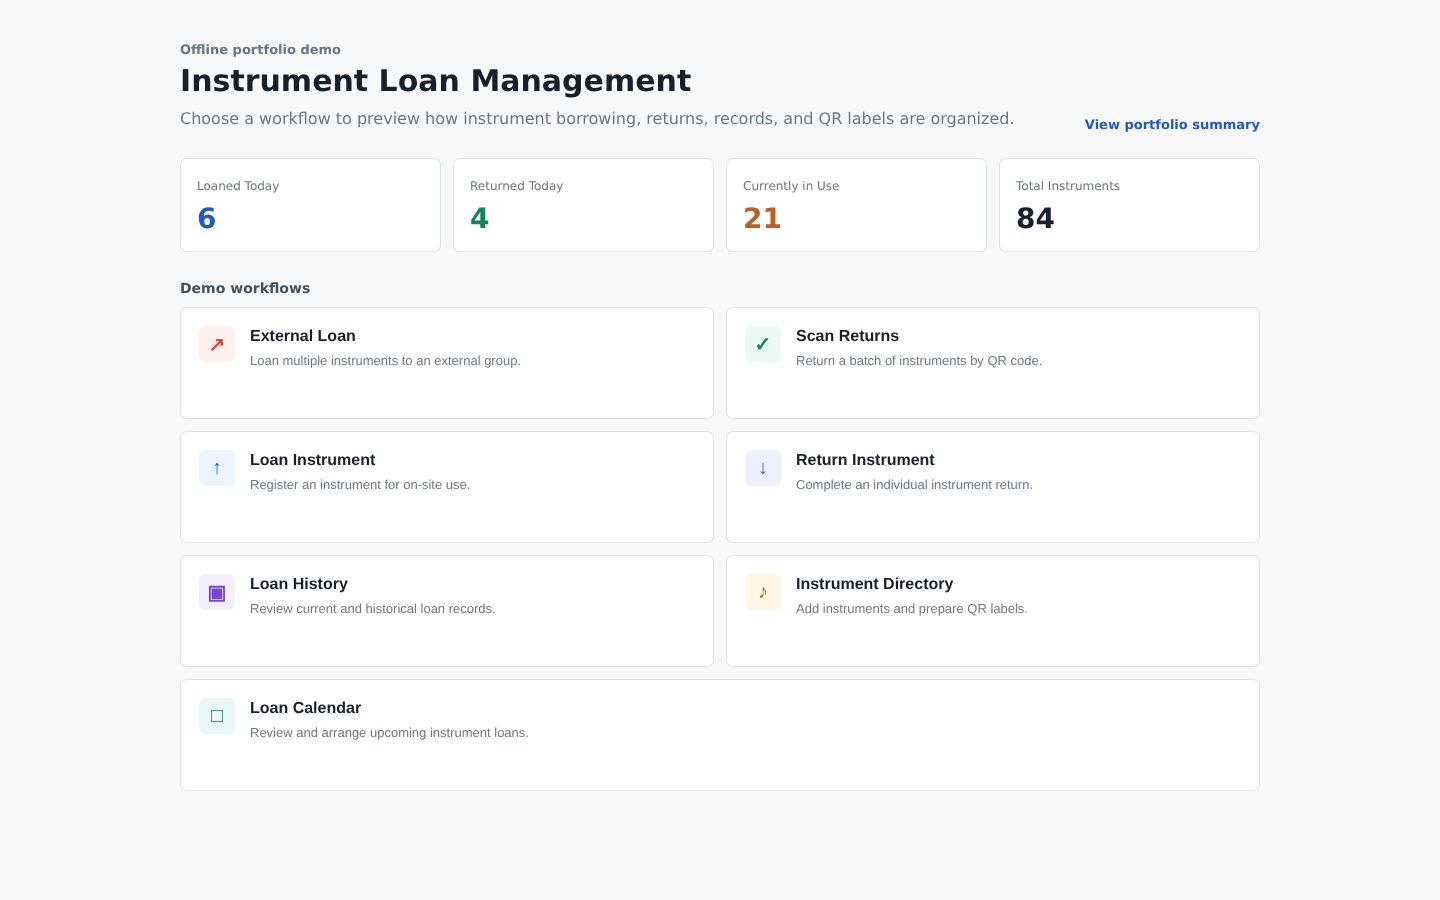
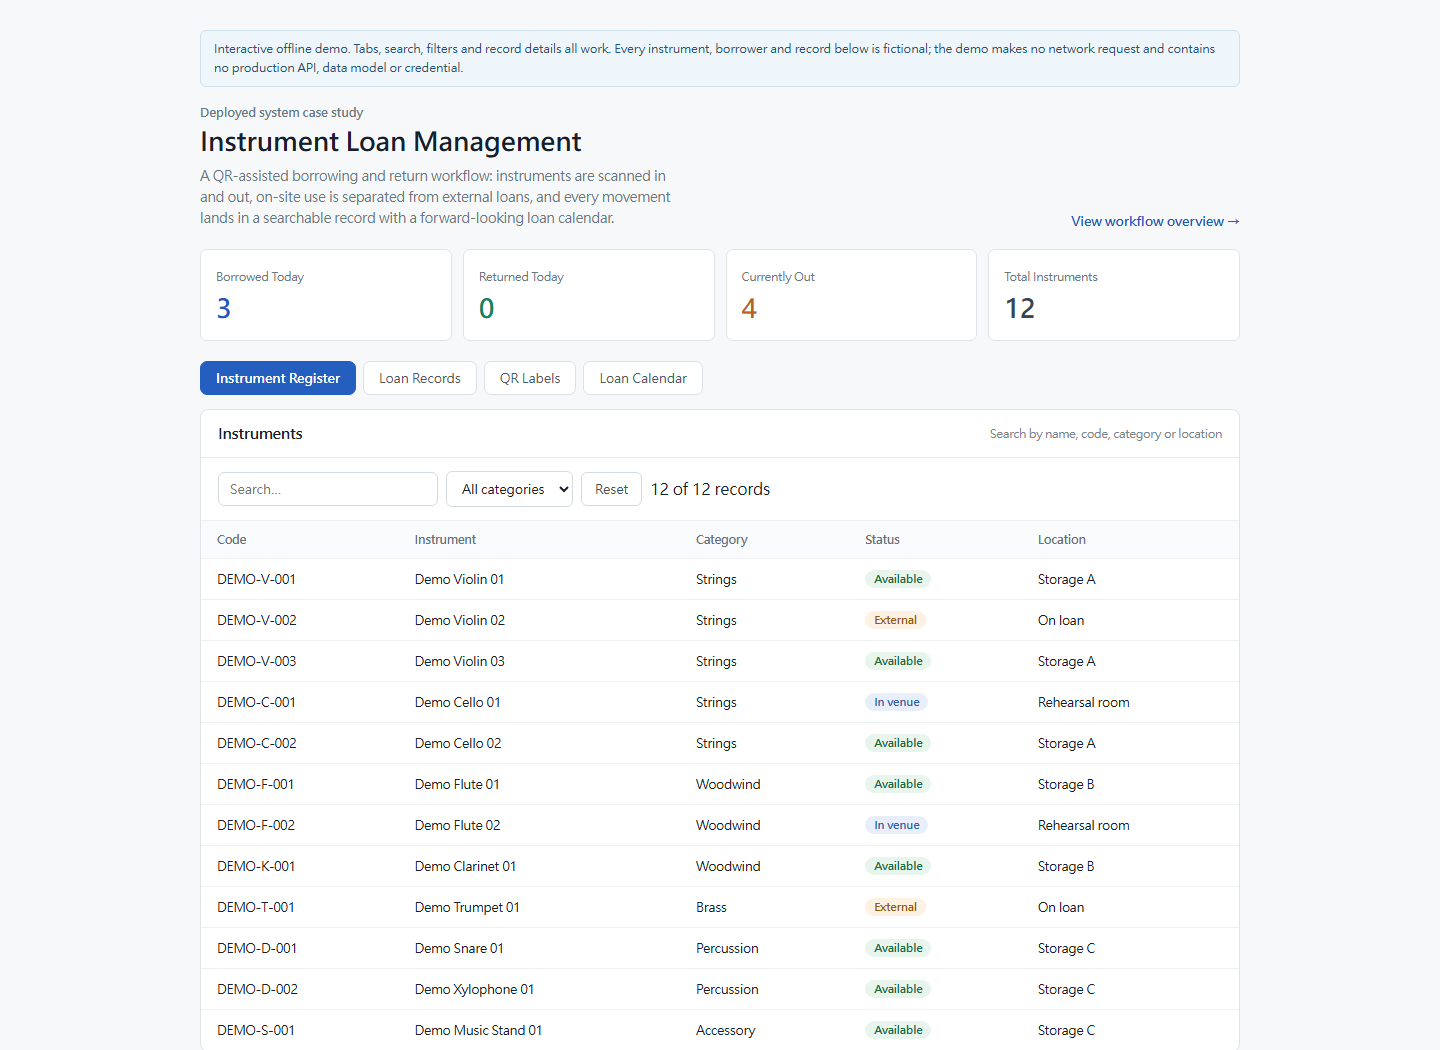
Make the demo interactive and add anonymized system screens

diff --git a/demo.html b/demo.html
@@ -1,63 +1,284 @@
 <!doctype html>
 <html lang="en">
 <head>
-  <meta charset="utf-8">
-  <meta name="viewport" content="width=device-width, initial-scale=1">
-  <title>Instrument Management Demo</title>
-  <link rel="stylesheet" href="style.css">
-  <style>
-    body { background:#f8fafc; color:#0f172a; }
-    .demo-shell { max-width:1180px; margin:0 auto; padding:28px 18px; }
-    .demo-hero { display:flex; justify-content:space-between; gap:20px; align-items:flex-end; margin-bottom:20px; }
-    .demo-hero h1 { font-size:30px; margin:0 0 8px; }
-    .demo-note { color:#64748b; line-height:1.7; max-width:720px; }
-    .stats { display:grid; grid-template-columns:repeat(auto-fit,minmax(160px,1fr)); gap:12px; margin:20px 0; }
-    .stat { background:white; border:1px solid #e2e8f0; border-radius:10px; padding:16px; }
-    .stat b { display:block; font-size:28px; color:#2563eb; margin-top:8px; }
-    .grid { display:grid; grid-template-columns:repeat(auto-fit,minmax(240px,1fr)); gap:12px; }
-    .card { background:white; border:1px solid #e2e8f0; border-radius:10px; padding:16px; }
-    table { width:100%; border-collapse:collapse; background:white; border:1px solid #e2e8f0; border-radius:10px; overflow:hidden; }
-    th,td { padding:12px; border-bottom:1px solid #e2e8f0; text-align:left; }
-    th { background:#f1f5f9; color:#475569; font-size:13px; }
-    .badge { display:inline-block; padding:3px 9px; border-radius:999px; font-size:12px; font-weight:700; }
-    .available { background:#dcfce7; color:#166534; }
-    .borrowed { background:#fee2e2; color:#991b1b; }
-    .venue { background:#dbeafe; color:#1d4ed8; }
-  </style>
+<meta charset="utf-8">
+<meta name="viewport" content="width=device-width, initial-scale=1">
+<title>Instrument Loan Management - Interactive Demo</title>
+<style>
+  *{box-sizing:border-box}
+  body{margin:0;font-family:Inter,system-ui,"Segoe UI",sans-serif;background:#f6f8f9;color:#17202a}
+  main{max-width:1080px;margin:0 auto;padding:30px 20px 70px}
+  .banner{background:#eef5fb;border:1px solid #cfe0ef;color:#2a5273;font-size:12px;padding:9px 13px;border-radius:6px;margin-bottom:18px;line-height:1.55}
+  header.top{display:flex;justify-content:space-between;align-items:flex-end;gap:20px;flex-wrap:wrap}
+  .eyebrow{margin:0;color:#667684;font-size:12px;font-weight:650}
+  h1{font-size:26px;margin:5px 0 0}
+  .sub{color:#69777f;font-size:13.5px;margin:8px 0 0;line-height:1.55;max-width:62ch}
+  .back{color:#2259bf;text-decoration:none;font-size:13px;font-weight:700;white-space:nowrap}
+  .stats{display:grid;grid-template-columns:repeat(auto-fit,minmax(140px,1fr));gap:11px;margin:20px 0}
+  .stat{background:#fff;border:1px solid #dfe4e8;border-radius:7px;padding:15px}
+  .stat span{font-size:11.5px;color:#6a7781}
+  .stat strong{display:block;font-size:26px;margin-top:7px;font-weight:750}
+  .blue{color:#2259bf}.green{color:#16835d}.orange{color:#b86124}.grey{color:#39454f}
+  .tabs{display:flex;gap:7px;flex-wrap:wrap;margin:6px 0 0}
+  .tab{font:inherit;font-size:13px;padding:8px 15px;border:1px solid #dbe1e6;background:#fff;color:#4c5a66;border-radius:7px;cursor:pointer}
+  .tab:hover{border-color:#a9bfdd}
+  .tab.active{background:#245fbf;border-color:#245fbf;color:#fff;font-weight:700}
+  .card{background:#fff;border:1px solid #dfe4e8;border-radius:8px;margin-top:14px;overflow:hidden}
+  .chead{padding:14px 17px;border-bottom:1px solid #e7ebee;display:flex;justify-content:space-between;align-items:center;gap:12px;flex-wrap:wrap}
+  .chead h2{font-size:14.5px;margin:0}
+  .chead .note{font-size:11.5px;color:#77848c}
+  .toolbar{display:flex;gap:8px;padding:13px 17px;border-bottom:1px solid #eef1f3;flex-wrap:wrap;align-items:center}
+  input[type=search],select{font:inherit;font-size:13px;padding:8px 11px;border:1px solid #d4dbe0;border-radius:6px;background:#fff;color:inherit}
+  input[type=search]{min-width:220px}
+  .btn{font:inherit;font-size:13px;padding:8px 13px;border-radius:6px;border:1px solid #d4dbe0;background:#fff;color:#43515d;cursor:pointer}
+  .btn.primary{background:#245fbf;border-color:#245fbf;color:#fff;font-weight:700}
+  .wrap{overflow-x:auto}
+  table{border-collapse:collapse;width:100%;font-size:12.5px}
+  th,td{padding:11px 16px;text-align:left;border-bottom:1px solid #eef1f3;white-space:nowrap}
+  th{background:#fafbfc;color:#66737d;font-weight:600;font-size:11.5px}
+  tbody tr{cursor:pointer}
+  tbody tr:hover{background:#f6f9fd}
+  .pill{display:inline-block;padding:2px 9px;border-radius:11px;font-size:11px;font-weight:700}
+  .p-available{background:#e7f5ed;color:#1a6c48}
+  .p-invenue{background:#e9effa;color:#2f5ea8}
+  .p-external{background:#fdf1e2;color:#95590f}
+  .p-borrow{background:#fdeceb;color:#a53a34}
+  .p-return{background:#eef1f3;color:#54606d}
+  .grid{display:grid;grid-template-columns:repeat(auto-fill,minmax(210px,1fr));gap:11px;padding:16px}
+  .tile{border:1px solid #e2e7eb;border-radius:7px;padding:14px;background:#fff;cursor:pointer}
+  .tile:hover{border-color:#a9bfdd;background:#fbfdff}
+  .tile h3{margin:0 0 5px;font-size:14px}
+  .tile p{margin:0;font-size:12px;color:#71808b;line-height:1.5}
+  .qr{width:52px;height:52px;border-radius:6px;background:
+    repeating-linear-gradient(90deg,#17202a 0 5px,#fff 5px 10px),
+    repeating-linear-gradient(0deg,#17202a 0 5px,transparent 5px 10px);
+    background-blend-mode:multiply;margin-bottom:10px;border:3px solid #17202a}
+  .empty{padding:28px 16px;text-align:center;color:#8b96a0;font-size:13px}
+  .cal{display:grid;grid-template-columns:repeat(7,1fr);gap:5px;padding:16px}
+  .cal .dow{font-size:11px;color:#77848c;text-align:center;padding-bottom:4px;font-weight:700}
+  .day{border:1px solid #e6eaee;border-radius:6px;min-height:74px;padding:6px;font-size:11px;background:#fff}
+  .day.dim{background:#fafbfc;color:#b3bcc4}
+  .day .n{font-weight:700;color:#4d5b66}
+  .ev{margin-top:4px;background:#e9effa;color:#2f5ea8;border-radius:4px;padding:2px 5px;font-size:10.5px;line-height:1.35;cursor:pointer}
+  .ev.ext{background:#fdf1e2;color:#8a5410}
+  dialog{border:0;border-radius:9px;padding:0;width:min(500px,92vw);box-shadow:0 18px 50px rgba(17,24,39,.25)}
+  dialog::backdrop{background:rgba(17,24,39,.45)}
+  .d-head{padding:16px 20px;border-bottom:1px solid #e8ecef;display:flex;justify-content:space-between;align-items:center}
+  .d-head h3{margin:0;font-size:15px}
+  .d-body{padding:16px 20px}
+  .d-body dl{display:grid;grid-template-columns:125px 1fr;gap:9px 14px;margin:0;font-size:13px}
+  .d-body dt{color:#77848c}.d-body dd{margin:0;font-weight:600}
+  .d-foot{padding:13px 20px;border-top:1px solid #e8ecef;text-align:right}
+  .x{border:0;background:transparent;font-size:20px;color:#8b96a0;cursor:pointer;line-height:1}
+  @media(max-width:720px){h1{font-size:22px}.cal{grid-template-columns:repeat(7,minmax(38px,1fr));overflow-x:auto}}
+</style>
 </head>
 <body>
-  <main class="demo-shell">
-    <section class="demo-hero">
-      <div>
-        <p class="demo-note">Demo Mode · Anonymous sample data</p>
-        <h1>Instrument Loan Management</h1>
-        <p class="demo-note">Demonstrates QR scanning, instrument status tracking, on-site use, external loans, batch returns, and loan history. This page does not connect to Supabase or a production API.</p>
+<main>
+  <div class="banner">Interactive offline demo. Tabs, search, filters and record details all work. Every instrument, borrower and record below is fictional; the demo makes no network request and contains no production API, data model or credential.</div>
+
+  <header class="top">
+    <div>
+      <p class="eyebrow">Deployed system case study</p>
+      <h1>Instrument Loan Management</h1>
+      <p class="sub">A QR-assisted borrowing and return workflow: instruments are scanned in and out, on-site use is separated from external loans, and every movement lands in a searchable record with a forward-looking loan calendar.</p>
+    </div>
+    <a class="back" href="index.html">View workflow overview →</a>
+  </header>
+
+  <section class="stats" id="stats"></section>
+  <div class="tabs" id="tabs"></div>
+  <div id="view"></div>
+</main>
+
+<dialog id="detail">
+  <div class="d-head"><h3 id="d-title">Record</h3><button class="x" id="d-x" aria-label="Close">&times;</button></div>
+  <div class="d-body"><dl id="d-body"></dl></div>
+  <div class="d-foot"><button class="btn" id="d-close">Close</button></div>
+</dialog>
+
+<script>
+const INSTRUMENTS = [
+  { code:'DEMO-V-001', name:'Demo Violin 01', category:'Strings',     status:'Available',   location:'Storage A' },
+  { code:'DEMO-V-002', name:'Demo Violin 02', category:'Strings',     status:'External',    location:'On loan' },
+  { code:'DEMO-V-003', name:'Demo Violin 03', category:'Strings',     status:'Available',   location:'Storage A' },
+  { code:'DEMO-C-001', name:'Demo Cello 01',  category:'Strings',     status:'In venue',    location:'Rehearsal room' },
+  { code:'DEMO-C-002', name:'Demo Cello 02',  category:'Strings',     status:'Available',   location:'Storage A' },
+  { code:'DEMO-F-001', name:'Demo Flute 01',  category:'Woodwind',    status:'Available',   location:'Storage B' },
+  { code:'DEMO-F-002', name:'Demo Flute 02',  category:'Woodwind',    status:'In venue',    location:'Rehearsal room' },
+  { code:'DEMO-K-001', name:'Demo Clarinet 01', category:'Woodwind',  status:'Available',   location:'Storage B' },
+  { code:'DEMO-T-001', name:'Demo Trumpet 01', category:'Brass',      status:'External',    location:'On loan' },
+  { code:'DEMO-D-001', name:'Demo Snare 01',  category:'Percussion',  status:'Available',   location:'Storage C' },
+  { code:'DEMO-D-002', name:'Demo Xylophone 01', category:'Percussion', status:'Available', location:'Storage C' },
+  { code:'DEMO-S-001', name:'Demo Music Stand 01', category:'Accessory', status:'Available', location:'Storage C' },
+];
+const RECORDS = [
+  { at:'2026-08-06 09:12', code:'DEMO-V-002', name:'Demo Violin 02', borrower:'Demo Borrower A', kind:'External', action:'Borrow', note:'Rehearsal use' },
+  { at:'2026-08-06 09:20', code:'DEMO-F-002', name:'Demo Flute 02',  borrower:'Demo Borrower B', kind:'On site',  action:'Borrow', note:'' },
+  { at:'2026-08-06 10:05', code:'DEMO-T-001', name:'Demo Trumpet 01',borrower:'Demo Ensemble X', kind:'External', action:'Borrow', note:'Loaned for a demo performance' },
+  { at:'2026-08-05 17:40', code:'DEMO-V-001', name:'Demo Violin 01', borrower:'Demo Borrower C', kind:'On site',  action:'Return', note:'Condition checked, no damage' },
+  { at:'2026-08-05 16:55', code:'DEMO-C-001', name:'Demo Cello 01',  borrower:'Demo Borrower D', kind:'On site',  action:'Borrow', note:'' },
+  { at:'2026-08-05 14:30', code:'DEMO-D-001', name:'Demo Snare 01',  borrower:'Demo Ensemble Y', kind:'External', action:'Return', note:'Counted back in full' },
+  { at:'2026-08-04 11:10', code:'DEMO-D-002', name:'Demo Xylophone 01', borrower:'Demo Borrower E', kind:'On site', action:'Return', note:'' },
+  { at:'2026-08-04 09:45', code:'DEMO-K-001', name:'Demo Clarinet 01', borrower:'Demo Borrower F', kind:'On site', action:'Return', note:'' },
+];
+const PLANNED = [
+  { from:'2026-08-10', to:'2026-08-12', code:'DEMO-V-001', name:'Demo Violin 01', borrower:'Demo Ensemble X', kind:'External', note:'Scheduled external loan' },
+  { from:'2026-08-14', to:'2026-08-14', code:'DEMO-C-002', name:'Demo Cello 02',  borrower:'Demo Borrower G', kind:'On site',  note:'Reserved for a session' },
+  { from:'2026-08-18', to:'2026-08-19', code:'DEMO-D-002', name:'Demo Xylophone 01', borrower:'Demo Ensemble Y', kind:'External', note:'' },
+];
+
+const esc = (s) => String(s).replace(/[&<>"]/g, c => ({ '&':'&amp;','<':'&lt;','>':'&gt;','"':'&quot;' }[c]));
+const SPILL = { 'Available':'p-available','In venue':'p-invenue','External':'p-external' };
+const APILL = { 'Borrow':'p-borrow','Return':'p-return' };
+
+document.getElementById('stats').innerHTML = [
+  ['Borrowed Today', RECORDS.filter(r => r.at.startsWith('2026-08-06') && r.action === 'Borrow').length, 'blue'],
+  ['Returned Today', RECORDS.filter(r => r.at.startsWith('2026-08-06') && r.action === 'Return').length, 'green'],
+  ['Currently Out', INSTRUMENTS.filter(i => i.status !== 'Available').length, 'orange'],
+  ['Total Instruments', INSTRUMENTS.length, 'grey'],
+].map(([l, v, c]) => `<div class="stat"><span>${l}</span><strong class="${c}">${v}</strong></div>`).join('');
+
+const dialog = document.getElementById('detail');
+function openDetail(title, pairs) {
+  document.getElementById('d-title').textContent = title;
+  document.getElementById('d-body').innerHTML = pairs
+    .map(([k, v]) => `<dt>${esc(k)}</dt><dd>${esc(v === '' || v == null ? '—' : v)}</dd>`).join('');
+  dialog.showModal();
+}
+document.getElementById('d-x').addEventListener('click', () => dialog.close());
+document.getElementById('d-close').addEventListener('click', () => dialog.close());
+
+function table(opts) {
+  const { title, note, columns, rows, filter, onRow, extra = '' } = opts;
+  const filterHtml = filter ? `<select id="f"><option value="">${esc(filter.label)}</option>` +
+    filter.options.map(o => `<option>${esc(o)}</option>`).join('') + '</select>' : '';
+  document.getElementById('view').innerHTML = `
+    <section class="card">
+      <div class="chead"><h2>${esc(title)}</h2><span class="note">${esc(note)}</span></div>
+      <div class="toolbar">
+        <input type="search" id="q" placeholder="Search…" autocomplete="off">
+        ${filterHtml}
+        <button class="btn" id="reset">Reset</button>
+        <span class="note" id="count"></span>
       </div>
-      <a class="btn-secondary" href="index.html">Open interactive demo</a>
-    </section>
+      <div class="wrap"><table>
+        <thead><tr>${columns.map(c => `<th>${esc(c.label)}</th>`).join('')}</tr></thead>
+        <tbody id="tbody"></tbody>
+      </table></div>
+    </section>` + extra;
+  const q = document.getElementById('q');
+  const f = document.getElementById('f');
+  const tbody = document.getElementById('tbody');
+  const count = document.getElementById('count');
+  function apply() {
+    const term = q.value.trim().toLowerCase();
+    const fv = f ? f.value : '';
+    const shown = rows.filter(r =>
+      (!term || Object.values(r).join(' ').toLowerCase().includes(term)) &&
+      (!fv || String(r[filter.key]) === fv));
+    count.textContent = shown.length + ' of ' + rows.length + ' records';
+    tbody.innerHTML = shown.length
+      ? shown.map((r, i) => `<tr data-i="${i}">` +
+          columns.map(c => `<td>${c.render ? c.render(r) : esc(r[c.key])}</td>`).join('') + '</tr>').join('')
+      : `<tr><td colspan="${columns.length}"><div class="empty">No records match the current search or filter.</div></td></tr>`;
+    tbody.querySelectorAll('tr[data-i]').forEach(tr =>
+      tr.addEventListener('click', () => onRow(shown[Number(tr.dataset.i)])));
+  }
+  q.addEventListener('input', apply);
+  if (f) f.addEventListener('change', apply);
+  document.getElementById('reset').addEventListener('click', () => { q.value = ''; if (f) f.value = ''; apply(); });
+  apply();
+}
 
-    <section class="stats">
-      <div class="stat">Total instruments <b>84</b></div>
-      <div class="stat">Available <b>61</b></div>
-      <div class="stat">In use on site <b>12</b></div>
-      <div class="stat">On external loan <b>9</b></div>
-      <div class="stat">Under maintenance <b>2</b></div>
-    </section>
+const VIEWS = {
+  register: { label:'Instrument Register', render() {
+    table({
+      title:'Instruments', note:'Search by name, code, category or location',
+      columns:[
+        { key:'code', label:'Code' }, { key:'name', label:'Instrument' },
+        { key:'category', label:'Category' },
+        { label:'Status', render:r => `<span class="pill ${SPILL[r.status]}">${esc(r.status)}</span>` },
+        { key:'location', label:'Location' },
+      ],
+      rows: INSTRUMENTS,
+      filter:{ key:'category', label:'All categories', options:[...new Set(INSTRUMENTS.map(i => i.category))] },
+      onRow: r => openDetail(r.name, [['Code',r.code],['Category',r.category],['Status',r.status],
+        ['Location',r.location],['Label','QR code printed from the admin screen']]),
+    });
+  }},
 
-    <section class="grid" style="margin-bottom:18px;">
-      <div class="card"><h3>QR labels</h3><p>Generate QR codes in batches and scan a label to open the relevant instrument workflow.</p></div>
-      <div class="card"><h3>Status management</h3><p>Track available, on-site, external loan, maintenance, and retired states.</p></div>
-      <div class="card"><h3>Loan history</h3><p>Record borrower, date, contact details, and return status for later review.</p></div>
-    </section>
+  records: { label:'Loan Records', render() {
+    table({
+      title:'Borrow and Return History', note:'Filter by on-site use or external loan',
+      columns:[
+        { key:'at', label:'Time' }, { key:'name', label:'Instrument' }, { key:'code', label:'Code' },
+        { key:'borrower', label:'Borrower' }, { key:'kind', label:'Type' },
+        { label:'Action', render:r => `<span class="pill ${APILL[r.action]}">${esc(r.action)}</span>` },
+        { key:'note', label:'Note' },
+      ],
+      rows: RECORDS,
+      filter:{ key:'kind', label:'All types', options:['On site','External'] },
+      onRow: r => openDetail(r.name + ' · ' + r.action, [['Time',r.at],['Code',r.code],
+        ['Borrower',r.borrower],['Type',r.kind],['Action',r.action],['Note',r.note]]),
+    });
+  }},
 
-    <table>
-      <thead><tr><th>ID</th><th>Instrument</th><th>Category</th><th>Location</th><th>Status</th><th>Current borrower</th></tr></thead>
-      <tbody>
-        <tr><td>VL-DEMO-001</td><td>Violin</td><td>Strings</td><td>Cabinet A</td><td><span class="badge available">Available</span></td><td>-</td></tr>
-        <tr><td>VC-DEMO-004</td><td>Cello</td><td>Strings</td><td>Cabinet B</td><td><span class="badge venue">In use on site</span></td><td>Demo Student</td></tr>
-        <tr><td>FL-DEMO-002</td><td>Flute</td><td>Woodwinds</td><td>Cabinet C</td><td><span class="badge borrowed">External loan</span></td><td>Demo Ensemble</td></tr>
-      </tbody>
-    </table>
-  </main>
+  labels: { label:'QR Labels', render() {
+    document.getElementById('view').innerHTML = `
+      <section class="card">
+        <div class="chead"><h2>Printable QR Labels</h2><span class="note">Select a label to see what a scan resolves to</span></div>
+        <div class="grid" id="grid"></div>
+      </section>`;
+    document.getElementById('grid').innerHTML = INSTRUMENTS.map((i, idx) =>
+      `<div class="tile" data-i="${idx}"><div class="qr"></div><h3>${esc(i.name)}</h3>
+       <p>${esc(i.code)}<br>${esc(i.category)} · ${esc(i.status)}</p></div>`).join('');
+    document.querySelectorAll('.tile').forEach(t => t.addEventListener('click', () => {
+      const i = INSTRUMENTS[Number(t.dataset.i)];
+      openDetail('Scan result — ' + i.name, [['Code',i.code],['Category',i.category],
+        ['Status',i.status],['Location',i.location],
+        ['Next action', i.status === 'Available' ? 'Offer borrow workflow' : 'Offer return workflow']]);
+    }));
+  }},
+
+  calendar: { label:'Loan Calendar', render() {
+    const cells = [];
+    const first = new Date('2026-08-01T00:00:00');
+    const lead = first.getDay();
+    for (let i = 0; i < lead; i++) cells.push(null);
+    for (let d = 1; d <= 31; d++) cells.push('2026-08-' + String(d).padStart(2, '0'));
+    while (cells.length % 7) cells.push(null);
+
+    document.getElementById('view').innerHTML = `
+      <section class="card">
+        <div class="chead"><h2>August 2026 — Scheduled Loans</h2><span class="note">Select an entry for detail</span></div>
+        <div class="cal">
+          ${['Sun','Mon','Tue','Wed','Thu','Fri','Sat'].map(d => `<div class="dow">${d}</div>`).join('')}
+          ${cells.map(date => {
+            if (!date) return '<div class="day dim"></div>';
+            const evs = PLANNED.filter(p => date >= p.from && date <= p.to);
+            return `<div class="day"><div class="n">${Number(date.slice(-2))}</div>` +
+              evs.map(p => `<div class="ev ${p.kind === 'External' ? 'ext' : ''}" data-code="${esc(p.code)}">${esc(p.name)}</div>`).join('') +
+              '</div>';
+          }).join('')}
+        </div>
+      </section>`;
+    document.querySelectorAll('.ev').forEach(e => e.addEventListener('click', () => {
+      const p = PLANNED.find(x => x.code === e.dataset.code);
+      openDetail(p.name, [['Code',p.code],['Borrower',p.borrower],['Type',p.kind],
+        ['From',p.from],['To',p.to],['Note',p.note]]);
+    }));
+  }},
+};
+
+const tabs = document.getElementById('tabs');
+tabs.innerHTML = Object.keys(VIEWS).map(k => `<button class="tab" data-k="${k}">${esc(VIEWS[k].label)}</button>`).join('');
+function show(k) {
+  tabs.querySelectorAll('.tab').forEach(b => b.classList.toggle('active', b.dataset.k === k));
+  VIEWS[k].render();
+}
+tabs.addEventListener('click', e => { const b = e.target.closest('.tab'); if (b) show(b.dataset.k); });
+show('register');
+</script>
 </body>
 </html>

diff --git a/README.md b/README.md
@@ -2,6 +2,14 @@
 
 ![Interactive workflow demo](screenshots/demo-workflows.png)
 
+## Anonymized Screens from the Deployed System
+
+The images below are the deployed system's own interface (Traditional Chinese), rendered offline with every production endpoint removed and fictional instruments, borrowers and records injected in place of real data.
+
+| Home | Loan records | Instrument administration |
+|------|--------------|---------------------------|
+| ![Home](screenshots/original-system-home.png) | ![Records](screenshots/original-system-records.png) | ![Administration](screenshots/original-system-admin.png) |
+
 ## Status
 
 Deployed for operational use. The complete source code and service configuration are private.
@@ -21,7 +29,7 @@ The system was designed as a lightweight responsive web application with structu
 
 ## Public Demo
 
-Open `index.html` for an English interactive workflow preview or `demo.html` for the portfolio summary. Both use fictional data and make no network requests.
+Open `demo.html` for the interactive English demo: an instrument register, borrow and return history, printable QR labels, and a loan calendar, each with working search, filters and record details. `index.html` is a shorter workflow overview. Both use fictional data and make no network requests.
 
 ## Disclosure Boundary
 
